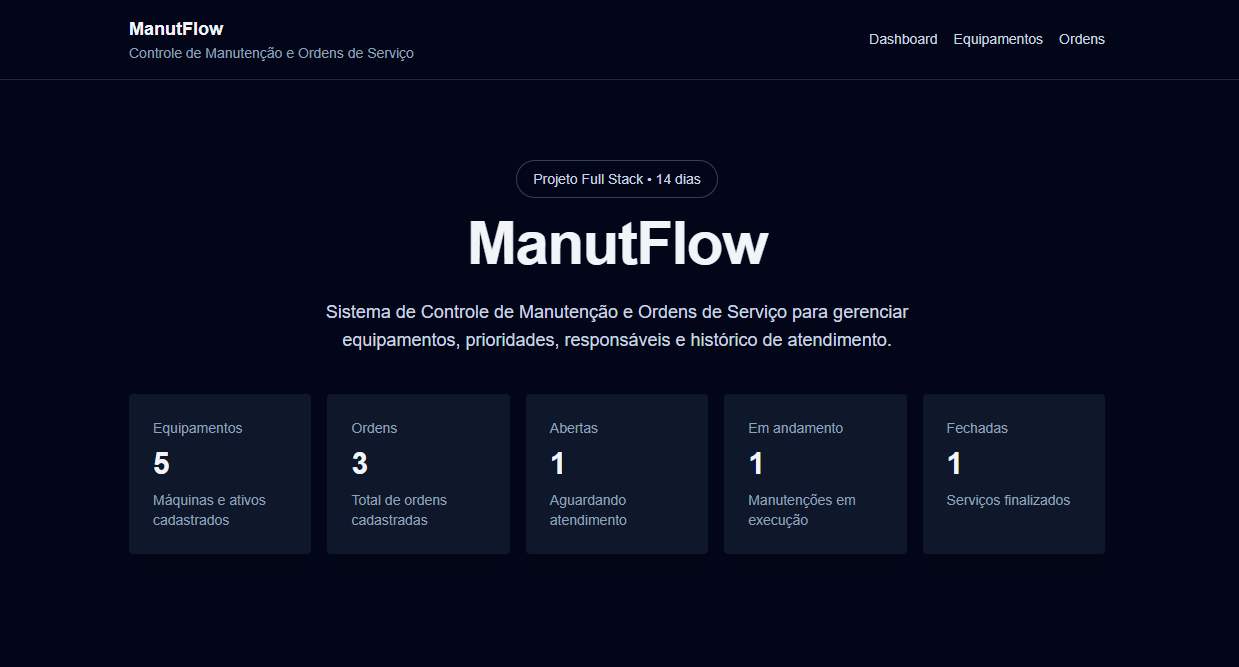
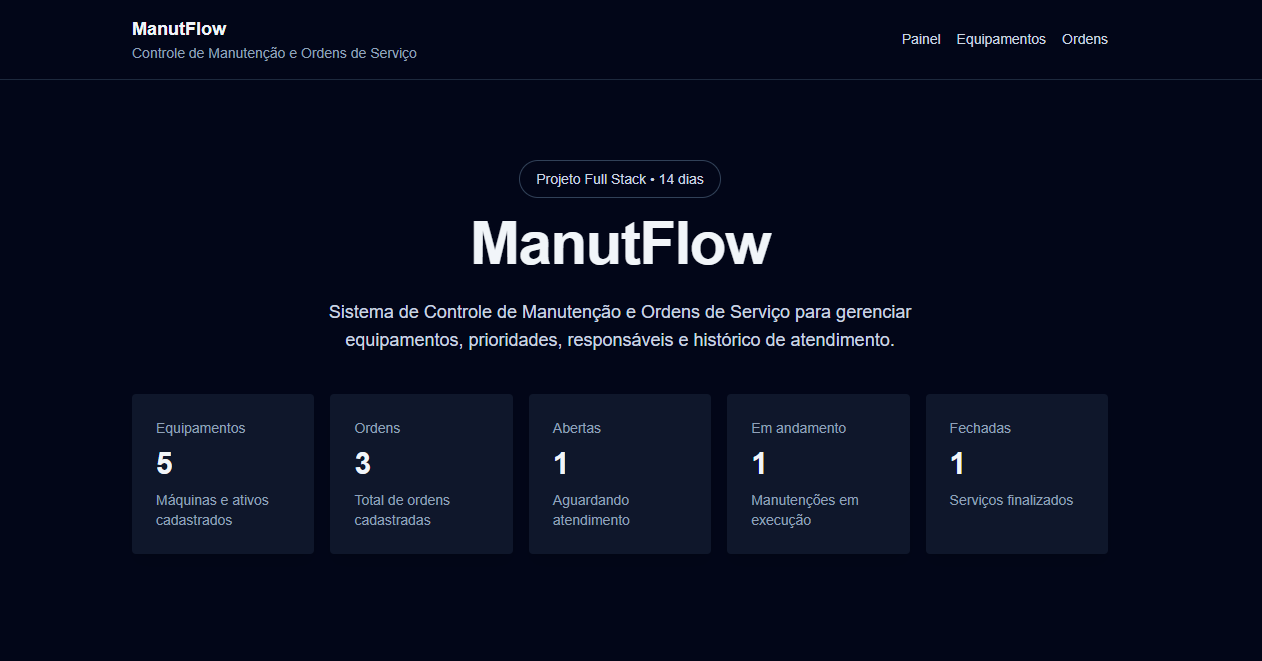
fix: ajusta textos da interface e previews

diff --git a/src/features/service-orders/service-order-status-filter.tsx b/src/features/service-orders/service-order-status-filter.tsx
@@ -24,7 +24,7 @@ export function ServiceOrderStatusFilter({
     return (
         <div className="rounded-2xl border border-slate-800 bg-slate-950/70 p-4">
             <div className="mb-3">
-                <h2 className="text-sm font-semibold text-white">Filter ordens</h2>
+                <h2 className="text-sm font-semibold text-white">Filtro por status</h2>
                 <p className="text-xs text-slate-400">
                     Visualize as ordens de acordo com o status atual.
                 </p>

diff --git a/src/components/layout/app-header.tsx b/src/components/layout/app-header.tsx
@@ -16,7 +16,7 @@ export function AppHeader() {
 
         <nav className="flex items-center gap-4 text-sm text-slate-300">
           <Link href="/" className="transition hover:text-slate-100">
-            Dashboard
+            Painel
           </Link>
 
           <Link
